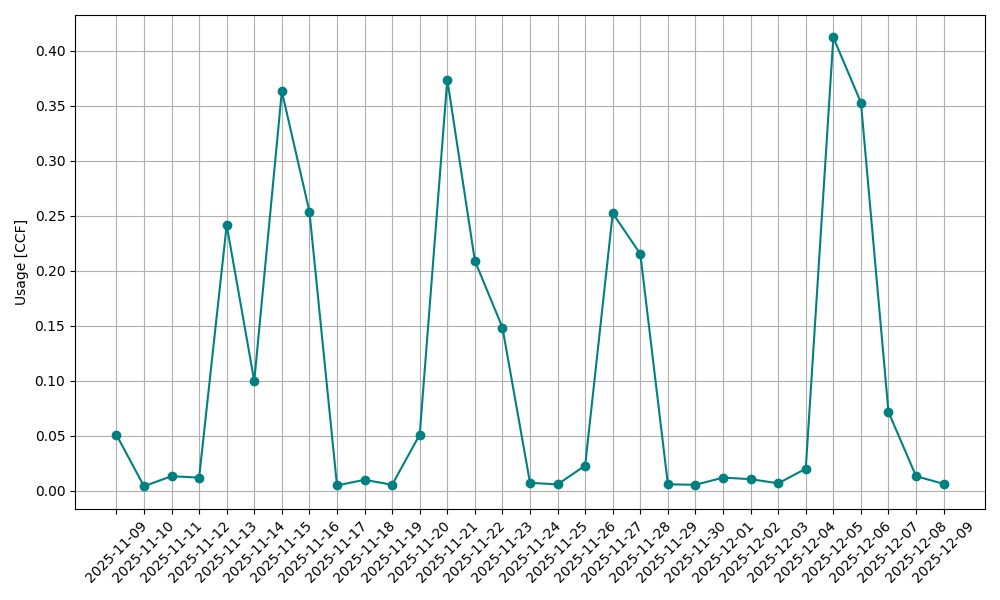
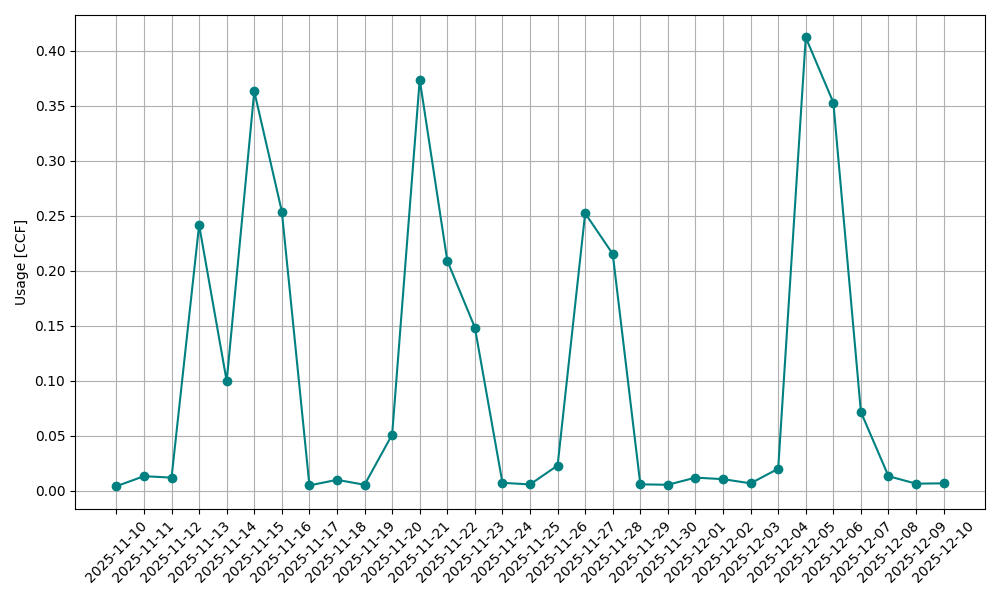
Telemetry + dashboard update from nightly run on 2025-12-11

diff --git a/docs/index.html b/docs/index.html
@@ -32,8 +32,7 @@
         <h3>📅 Last 30 Days of Use</h3>
 <table border="1" cellpadding="6" cellspacing="0">
     <thead><tr><th>Date</th><th>Usage (CCF)</th><th>Cost ($)</th></tr></thead>
-    <tbody><tr><td>2025-11-10</td><td>0.00</td><td>$0.03</td></tr>
-<tr><td>2025-11-11</td><td>0.01</td><td>$0.09</td></tr>
+    <tbody><tr><td>2025-11-11</td><td>0.01</td><td>$0.09</td></tr>
 <tr><td>2025-11-12</td><td>0.01</td><td>$0.08</td></tr>
 <tr><td>2025-11-13</td><td>0.24</td><td>$1.62</td></tr>
 <tr><td>2025-11-14</td><td>0.10</td><td>$0.67</td></tr>
@@ -61,11 +60,12 @@
 <tr><td>2025-12-06</td><td>0.35</td><td>$2.36</td></tr>
 <tr><td>2025-12-07</td><td>0.07</td><td>$0.48</td></tr>
 <tr><td>2025-12-08</td><td>0.01</td><td>$0.09</td></tr>
-<tr><td>2025-12-09</td><td>0.01</td><td>$0.04</td></tr></tbody>
+<tr><td>2025-12-09</td><td>0.01</td><td>$0.04</td></tr>
+<tr><td>2025-12-10</td><td>0.01</td><td>$0.04</td></tr></tbody>
 </table>
 
         
-        <p><em>Dashboard auto-updated on 2025-12-09</em></p>
+        <p><em>Dashboard auto-updated on 2025-12-10</em></p>
     </div>
 
     <div id="chemicals" class="tab-content">
@@ -100,6 +100,24 @@
         <th>Fe</th><th>Cu</th><th>Phos</th></tr>
     </thead>
     <tbody>
+    <tr>
+        <td>2025-12-10</td>
+        <td>0.01</td>
+        <td>—</td>
+        <td>—</td>
+        <td>—</td>
+        <td>—</td>
+        <td>—</td>
+        <td>—</td>
+        <td>—</td>
+        <td>—</td>
+        <td>—</td>
+        <td>—</td>
+        <td>—</td>
+        <td>—</td>
+        <td>—</td>
+    </tr>
+    
     <tr>
         <td>2025-12-09</td>
         <td>0.01</td>
@@ -337,24 +355,6 @@
     <tr>
         <td>2025-11-26</td>
         <td>0.02</td>
-        <td>—</td>
-        <td>—</td>
-        <td>—</td>
-        <td>—</td>
-        <td>—</td>
-        <td>—</td>
-        <td>—</td>
-        <td>—</td>
-        <td>—</td>
-        <td>—</td>
-        <td>—</td>
-        <td>—</td>
-        <td>—</td>
-    </tr>
-    
-    <tr>
-        <td>2025-11-25</td>
-        <td>0.01</td>
         <td>—</td>
         <td>—</td>
         <td>—</td>
